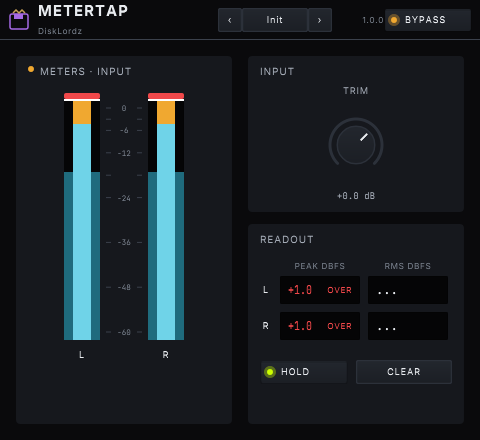
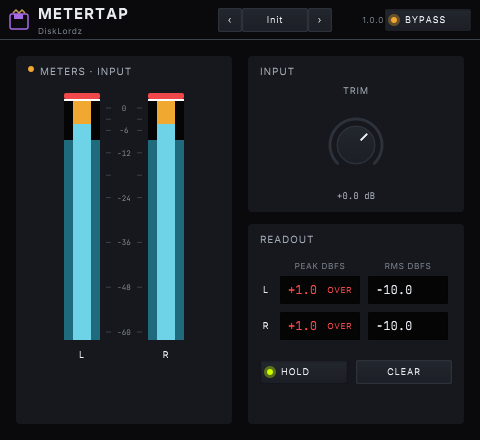
fix MeterTap RMS ellipsis + HeaderBar productName clip; merge main
ValueReadout reserves unit column only when unit/OVER is shown so 80 px
RMS wells render full −10.0/−95.9/+12.0 without ellipsis. HeaderBar sizes
productName from theme lineHeight and shrinks brand, never clipping
descenders. Assertions cover exact readout strings + productName bounds
for both themes. Merged origin/main (#122–#126).

diff --git a/vst/MeterTap/tests/EditorRenderTests.cpp b/vst/MeterTap/tests/EditorRenderTests.cpp
@@ -149,6 +149,39 @@ void assertReadoutNonEmpty(fds::gui::ValueReadout& r, const juce::String& name, 
   const juce::String minus(juce::CharPointer_UTF8("\xe2\x88\x92"));
   const bool ok = (t == inf) || t.startsWith("+") || t.startsWith(minus);
   expect(ok, name + " readout format @" + juce::String(scale) + " got=[" + t + "]");
+  expect(!t.contains("...") && !t.containsChar((juce::juce_wchar)0x2026),
+         name + " readout text must not contain ellipsis @" + juce::String(scale)
+             + " got=[" + t + "]");
+  expect(r.valueTextFitsWithoutEllipsis(),
+         name + " value must fit well without ellipsis @" + juce::String(scale)
+             + " text=[" + t + "] width=" + juce::String(r.getValueLabelBounds().getWidth()));
+}
+
+void assertReadoutExact(fds::gui::ValueReadout& r, const juce::String& expected,
+                        const juce::String& name, float scale)
+{
+  const auto t = r.getValueText();
+  expect(t == expected,
+         name + " readout must equal [" + expected + "] got=[" + t + "] @" + juce::String(scale));
+  expect(r.valueTextFitsWithoutEllipsis(),
+         name + " exact value must fit without ellipsis @" + juce::String(scale));
+}
+
+void assertProductNameInsideHeader(MeterTapAudioProcessorEditor& editor, float scale)
+{
+  auto& header = editor.getHeader();
+  const auto nameBounds = header.getProductNameBounds();
+  const auto headerBounds = header.getLocalBounds();
+  expect(headerBounds.contains(nameBounds),
+         "productName bounds must lie inside header @" + juce::String(scale)
+             + " name=" + nameBounds.toString() + " header=" + headerBounds.toString());
+  // Descenders must not be clipped: name height >= productName lineHeight (or full avail).
+  const int need = fds::typography::style::productName.lineHeight;
+  expect(nameBounds.getHeight() >= juce::jmin(need, headerBounds.getHeight()),
+         "productName height must cover lineHeight @" + juce::String(scale)
+             + " got=" + juce::String(nameBounds.getHeight()) + " need=" + juce::String(need));
+  expect(nameBounds.getBottom() <= headerBounds.getBottom(),
+         "productName bottom must not exceed header @" + juce::String(scale));
 }
 
 void runScale(float scale)
@@ -170,6 +203,10 @@ void runScale(float scale)
   assertReadoutNonEmpty(editor.getRmsL(), "RMS L (normal)", scale);
   assertReadoutNonEmpty(editor.getRmsR(), "RMS R (normal)", scale);
   assertReadoutNonEmpty(editor.getPeakL(), "PEAK L (normal)", scale);
+  {
+    const juce::String inf(juce::CharPointer_UTF8("\xe2\x88\x92\xe2\x88\x9e"));
+    assertReadoutExact(editor.getRmsL(), inf, "RMS L silence", scale);
+  }
   expect(editor.getTrimValueText() == "+0.0 dB",
          "trim value must be '+0.0 dB' got=[" + editor.getTrimValueText() + "]");
   expect(editor.getPresetNameText() == "Init",
@@ -177,6 +214,7 @@ void runScale(float scale)
   assertUtf8Title(editor.getMeterTitleText(), scale);
   expect(editor.getMeterTitleText().contains("OUTPUT"),
          "normal title should be OUTPUT @" + juce::String(scale));
+  assertProductNameInsideHeader(editor, scale);
 
   auto normalFile = outDir().getChildFile("MeterTapEditor@" + juce::String(scale, 1) + "x.png");
   writePng(imgNormal, normalFile);
@@ -193,9 +231,29 @@ void runScale(float scale)
   assertReadoutNonEmpty(editor.getRmsL(), "RMS L (over)", scale);
   assertReadoutNonEmpty(editor.getRmsR(), "RMS R (over)", scale);
   assertReadoutNonEmpty(editor.getPeakL(), "PEAK L (over)", scale);
+  {
+    // Signal present: full one-decimal string, no "..." (design-spec 80 px wells, no unit).
+    const juce::String expectedRms = juce::String(juce::CharPointer_UTF8("\xe2\x88\x92")) + "10.0";
+    assertReadoutExact(editor.getRmsL(), expectedRms, "RMS L over-bypass", scale);
+    assertReadoutExact(editor.getRmsR(), expectedRms, "RMS R over-bypass", scale);
+    // Extreme signed widths that must still fit valueLarge in an 80 px well
+    // (−96.0 is at numericFloor and becomes −∞; use −95.9 / +12.0 for digit fit).
+    editor.setTestLevels(0, -6.0f, -95.9f, -6.0f, false);
+    editor.forcePaintForTest();
+    const juce::String nearFloor = juce::String(juce::CharPointer_UTF8("\xe2\x88\x92")) + "95.9";
+    assertReadoutExact(editor.getRmsL(), nearFloor, "RMS L −95.9 fit", scale);
+    editor.setTestLevels(0, 1.0f, 12.0f, 1.0f, true);
+    editor.forcePaintForTest();
+    assertReadoutExact(editor.getRmsL(), "+12.0", "RMS L +12.0 fit", scale);
+    editor.setTestOverLatched(true, true);
+    editor.forcePaintForTest();
+    assertReadoutExact(editor.getRmsL(), expectedRms, "RMS L restored −10.0", scale);
+    assertReadoutExact(editor.getRmsR(), expectedRms, "RMS R restored −10.0", scale);
+  }
   assertUtf8Title(editor.getMeterTitleText(), scale);
   expect(editor.getMeterTitleText().contains("INPUT"),
          "bypass title should be INPUT @" + juce::String(scale));
+  assertProductNameInsideHeader(editor, scale);
 
   // Chassis background
   expect(colourClose(imgOver.getPixelAt(2, 2), fds::gui::argb(fds::color::bg::chassis), 30),

diff --git a/vst/factory-lib/gui/components/ValueReadout.cpp b/vst/factory-lib/gui/components/ValueReadout.cpp
@@ -38,6 +38,12 @@ void ValueReadout::setState (State s)
     valueLabel.setColour (juce::Label::textColourId, col);
     unitLabel.setColour (juce::Label::textColourId,
                          state == State::over ? argb (color::state::danger) : argb (color::text::tertiary));
+    // OVER occupies the unit column — refresh layout when state flips.
+    if (state == State::over && unitLabel.getText() != "OVER")
+        unitLabel.setText ("OVER", juce::dontSendNotification);
+    else if (state != State::over && unitLabel.getText() == "OVER")
+        unitLabel.setText ({}, juce::dontSendNotification);
+    resized();
     repaint();
 }
 
@@ -46,6 +52,8 @@ void ValueReadout::setValueText (const juce::String& value, const juce::String& 
     if (! valueLabel.isBeingEdited())
         valueLabel.setText (value, juce::dontSendNotification);
     unitLabel.setText (state == State::over ? "OVER" : unit, juce::dontSendNotification);
+    // Unit column is optional — reclaim width when empty so −96.0 / +12.0 fit an 80 px well.
+    resized();
 }
 
 void ValueReadout::setFromDb (float db)
@@ -80,8 +88,21 @@ void ValueReadout::resized()
     wellPath.clear();
     wellPath.addRoundedRectangle (getLocalBounds().toFloat(), radius::xs);
     auto r = getLocalBounds().reduced (8, 4);
-    unitLabel.setBounds (r.removeFromRight (40));
+    // Reserve unit column only when a unit (or OVER) is shown — RMS wells have no unit.
+    if (unitLabel.getText().isNotEmpty())
+    {
+        const int unitW = juce::jmin (40, juce::jmax (28, r.getWidth() / 3));
+        unitLabel.setBounds (r.removeFromRight (unitW));
+        unitLabel.setVisible (true);
+    }
+    else
+    {
+        unitLabel.setBounds ({});
+        unitLabel.setVisible (false);
+    }
     valueLabel.setBounds (r);
+    // Never ellipsize the value — shrink tracking only if needed; prefer full glyphs.
+    valueLabel.setMinimumHorizontalScale (0.85f);
 }
 
 void ValueReadout::mouseDown (const juce::MouseEvent&)

diff --git a/vst/factory-lib/gui/tests/FactoryGuiRenderTests.cpp b/vst/factory-lib/gui/tests/FactoryGuiRenderTests.cpp
@@ -290,6 +290,13 @@ void checkHeader (float scale)
     const auto bg = img.getPixelAt (2, 2);
     expect (colourClose (bg, fds::gui::argb (fds::color::bg::chassis), 30),
             "HeaderBar bg should be chassis");
+    const auto nameBounds = header.getProductNameBounds();
+    expect (header.getLocalBounds().contains (nameBounds),
+            "HeaderBar productName must lie inside header");
+    expect (nameBounds.getHeight()
+                >= juce::jmin (fds::typography::style::productName.lineHeight,
+                               header.getHeight()),
+            "HeaderBar productName height covers theme lineHeight");
     writePng (img, outDir().getChildFile ("HeaderBar@" + juce::String (scale, 1) + "x.png"));
     header.setLookAndFeel (nullptr);
 }
@@ -299,9 +306,18 @@ void checkReadout (float scale)
     fds::gui::FactoryLookAndFeel lnf;
     fds::gui::ValueReadout r;
     r.setLookAndFeel (&lnf);
-    r.setFromDb (1.5f);
-    r.setSize (120, 32);
+    r.setLarge (true);
+    // 80 px well, no unit — must show full −10.0 / −96.0 / +12.0 without ellipsis.
+    r.setSize (80, 28);
+    r.setState (fds::gui::ValueReadout::State::normal);
+    r.setValueText (fds::gui::minusSign() + "10.0", {});
     r.resized();
+    expect (r.getValueText() == fds::gui::minusSign() + "10.0", "ValueReadout −10.0 text");
+    expect (r.valueTextFitsWithoutEllipsis(), "ValueReadout −10.0 fits 80px well");
+    r.setValueText (fds::gui::minusSign() + "96.0", {});
+    expect (r.valueTextFitsWithoutEllipsis(), "ValueReadout −96.0 fits 80px well");
+    r.setValueText ("+12.0", {});
+    expect (r.valueTextFitsWithoutEllipsis(), "ValueReadout +12.0 fits 80px well");
     auto img = renderComponent (r, scale);
     expect (imageNonBlank (img), "ValueReadout blank");
     writePng (img, outDir().getChildFile ("ValueReadout@" + juce::String (scale, 1) + "x.png"));

diff --git a/vst/factory-lib/gui/components/HeaderBar.cpp b/vst/factory-lib/gui/components/HeaderBar.cpp
@@ -75,8 +75,21 @@ void HeaderBar::resized()
     glyphSlot.setBounds (r.removeFromLeft (22).withSizeKeepingCentre (22, 22));
     r.removeFromLeft (8);
     auto left = r.removeFromLeft (180);
-    productName.setBounds (left.removeFromTop (22));
-    brandLabel.setBounds (left);
+
+    // Theme-aware stack: productName keeps its full lineHeight (never clip descenders);
+    // brand/micro shrinks into whatever remains of the 40 px header.
+    const int nameLine = typography::style::productName.lineHeight;
+    const int brandLine = typography::style::micro.lineHeight;
+    const int avail = left.getHeight();
+    const int nameH = juce::jmin (nameLine, avail);
+    const int brandH = juce::jmax (0, juce::jmin (brandLine, avail - nameH));
+    // Vertically centre the name+brand stack when both fit with slack.
+    const int stackH = nameH + brandH;
+    const int topPad = juce::jmax (0, (avail - stackH) / 2);
+    auto stack = left.withTrimmedTop (topPad).withHeight (stackH);
+    productName.setBounds (stack.removeFromTop (nameH));
+    brandLabel.setBounds (stack.removeFromTop (brandH));
+    brandLabel.setVisible (brandH > 0);
 
     auto right = r.removeFromRight (140);
     bypass.setBounds (right.removeFromRight (88).withSizeKeepingCentre (88, size::toggle::md));

diff --git a/vst/factory-lib/gui/components/ValueReadout.h b/vst/factory-lib/gui/components/ValueReadout.h
@@ -22,6 +22,21 @@ public:
     juce::String getValueText() const { return valueLabel.getText(); }
     State getState() const noexcept { return state; }
 
+    /** True when the current value string fits the value label without ellipsis. */
+    bool valueTextFitsWithoutEllipsis() const
+    {
+        const auto text = valueLabel.getText();
+        if (text.isEmpty())
+            return true;
+        const auto font = valueLabel.getFont();
+        // JUCE Label ellipsizes when string width exceeds bounds at minimumHorizontalScale.
+        const float minScale = valueLabel.getMinimumHorizontalScale();
+        const float avail = (float) valueLabel.getWidth() / juce::jmax (0.01f, minScale);
+        return font.getStringWidthFloat (text) <= avail + 0.5f;
+    }
+
+    juce::Rectangle<int> getValueLabelBounds() const { return valueLabel.getBounds(); }
+
     std::function<void (const juce::String&)> onTextCommit;
 
     void paint (juce::Graphics&) override;

diff --git a/vst/factory-lib/gui/components/HeaderBar.h b/vst/factory-lib/gui/components/HeaderBar.h
@@ -23,6 +23,10 @@ public:
     LedToggle& getBypassToggle() noexcept { return bypass; }
     PresetBrowser& getPresetBrowser() noexcept { return presets; }
     juce::Component& getGlyphSlot() noexcept { return glyphSlot; }
+    juce::Label& getProductNameLabel() noexcept { return productName; }
+    const juce::Label& getProductNameLabel() const noexcept { return productName; }
+    /** Product-name label bounds in HeaderBar local coords — must lie inside the header. */
+    juce::Rectangle<int> getProductNameBounds() const { return productName.getBounds(); }
 
     void paint (juce::Graphics&) override;
     void resized() override;

diff --git a/vst/MeterTap/Source/PluginEditor.cpp b/vst/MeterTap/Source/PluginEditor.cpp
@@ -436,7 +436,7 @@ void MeterTapAudioProcessorEditor::setTestOverLatched(bool left, bool right)
 {
   overLatched_ = {{left, right}};
   const float floorDb = fds::meter::defaultFloorDb;
-  constexpr float kRmsDb = -18.0f;
+  constexpr float kRmsDb = -10.0f; // must render as full "−10.0" (no ellipsis) in 80 px wells
   meterL_.setLevels(left ? 1.0f : -12.0f, kRmsDb, left ? 1.0f : floorDb, left);
   meterR_.setLevels(right ? 1.0f : -12.0f, kRmsDb, right ? 1.0f : floorDb, right);
   updateReadout(peakL_, left ? 1.0f : -12.0f, left, lastPeakLText_);

diff --git a/plugins/MeterTap/RELEASE_NOTES.md b/plugins/MeterTap/RELEASE_NOTES.md
@@ -34,6 +34,10 @@ bypass. Levels are analysed on the audio thread (factory-lib `PeakRms` +
 - LevelMeter peak/hot split + `formatDb` UTF-8 helpers from design-system
   (`cursor/design-system-juce-impl-1279`).
 - Header glyph: simplified floppy+crown vector (`brand.stroke` / `premium.badge`).
+- ValueReadout: unit column only when unit/OVER present so RMS wells show full
+  `−10.0` / `−96.0` / `+12.0` (no ellipsis) in 80 px `valueLarge` wells.
+- HeaderBar: productName uses theme `lineHeight` (never clips descenders);
+  brand/micro shrinks into remaining header height.
 
 ## Known issues
 
